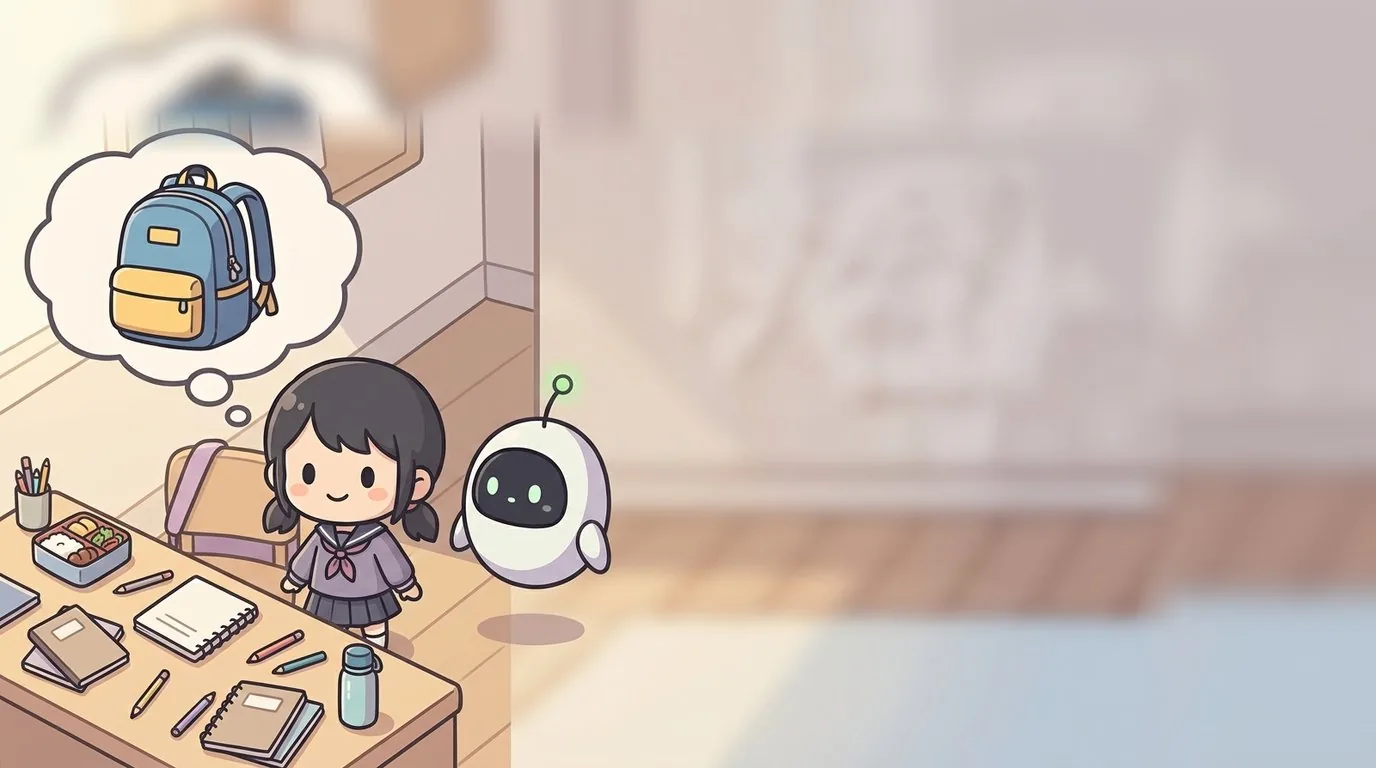
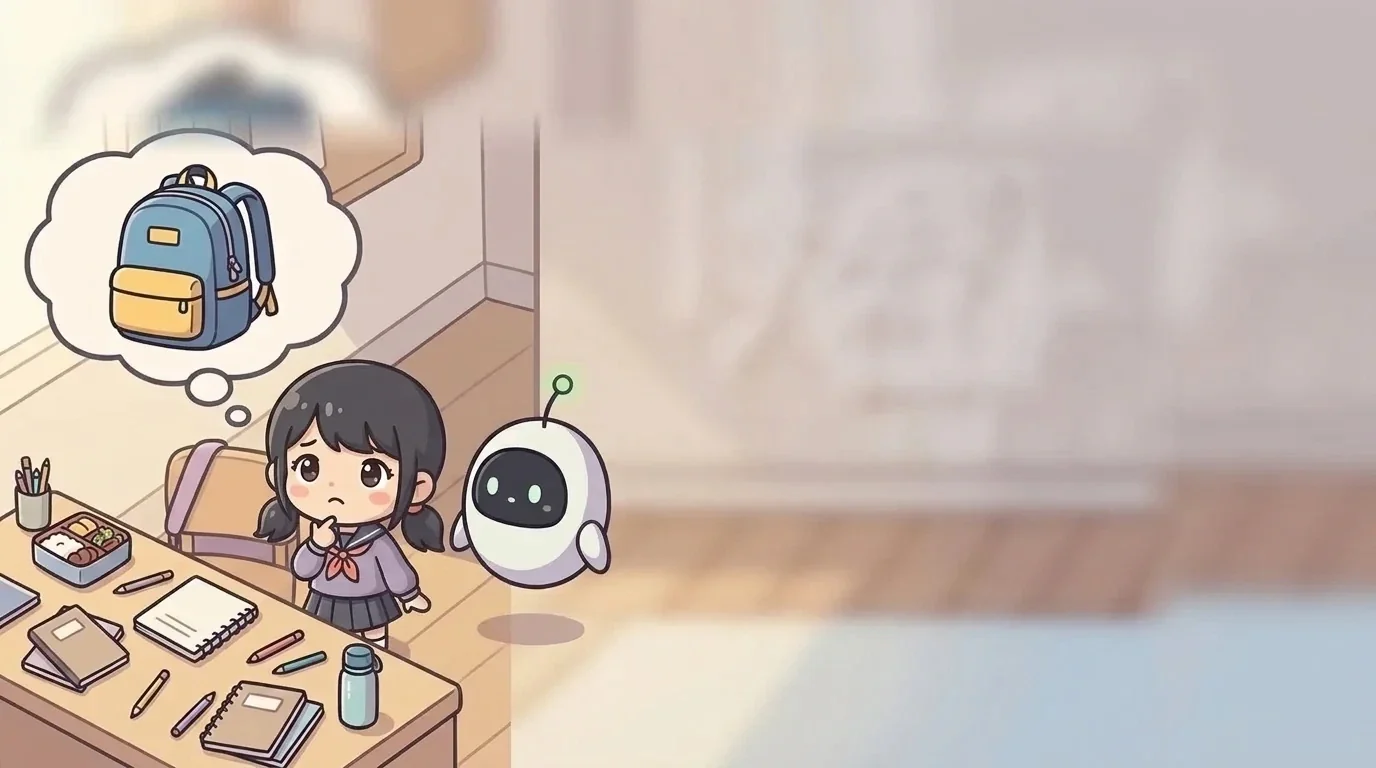
Promoções 0 a 5, menina da Escola e alfinete da Fábrica redesenhados
Artes novas geradas no Google Flow no estilo dos personagens mais recentes.
As versões antigas foram para antigos/img/ e estão listadas no LEIA-ME.

Claude-Session: https://claude.ai/code/session_01Bsh6pjGxG4aLmpNmfdfPHX

diff --git a/sw.js b/sw.js
@@ -2,7 +2,7 @@
    rode "node ferramentas/gerar-sw.js" depois de mudar o ?v= do index.html. */
 'use strict';
 
-const VERSAO = '202611260300';
+const VERSAO = '202611260330';
 const CACHE = 'algoritimando-' + VERSAO;
 const ARQUIVOS = [
   "./",
@@ -18,7 +18,7 @@ const ARQUIVOS = [
   "audio/efeitos/selo.mp3",
   "audio/efeitos/vitoria.mp3",
   "audio/musica-tema.mp3",
-  "fontes/fontes.css?v=202611260300",
+  "fontes/fontes.css?v=202611260330",
   "fontes/fredoka.woff2",
   "fontes/nunito.woff2",
   "img/agente-afro-menina.webp",
@@ -44,7 +44,6 @@ const ARQUIVOS = [
   "img/av9.webp",
   "img/cliente0.webp",
   "img/cliente1.webp",
-  "img/cliente2.webp",
   "img/cliente3.webp",
   "img/cliente4.webp",
   "img/cliente5.webp",
@@ -64,7 +63,6 @@ const ARQUIVOS = [
   "img/icones/icone-maskable-512.png",
   "img/level1.webp",
   "img/level2.webp",
-  "img/level3.webp",
   "img/level4.webp",
   "img/level5.webp",
   "img/level6.webp",
@@ -232,18 +230,11 @@ const ARQUIVOS = [
   "img/pecas/sanduiche-queijo.webp",
   "img/pic1.webp",
   "img/pic2.webp",
-  "img/pic3.webp",
   "img/pic4.webp",
   "img/pic5.webp",
   "img/pic6.webp",
   "img/pic7.webp",
   "img/pic8.webp",
-  "img/promo0.webp",
-  "img/promo1.webp",
-  "img/promo2.webp",
-  "img/promo3.webp",
-  "img/promo4.webp",
-  "img/promo5.webp",
   "img/promo6.webp",
   "img/promo7.webp",
   "img/promo8.webp",
@@ -270,38 +261,35 @@ const ARQUIVOS = [
   "img/ui/dica.webp",
   "img/ui/estrela.webp",
   "img/who1.webp",
-  "img/who2.webp",
-  "img/who3.webp",
   "img/who4.webp",
   "img/who5.webp",
   "img/who6.webp",
   "img/win1.webp",
   "img/win2.webp",
-  "img/win3.webp",
   "img/win4.webp",
   "img/win5.webp",
   "img/win6.webp",
   "img/win7.webp",
   "img/win8.webp",
   "index.html",
-  "js/album.js?v=202611260300",
-  "js/app.js?v=202611260300",
-  "js/arrasto.js?v=202611260300",
-  "js/comum.js?v=202611260300",
-  "js/conclusao.js?v=202611260300",
-  "js/em-progresso.js?v=202611260300",
-  "js/final.js?v=202611260300",
-  "js/jogo.js?v=202611260300",
-  "js/montagem.js?v=202611260300",
-  "js/motor.js?v=202611260300",
-  "js/perfil.js?v=202611260300",
-  "js/progresso.js?v=202611260300",
-  "js/pwa.js?v=202611260300",
-  "js/situacoes.js?v=202611260300",
-  "js/som.js?v=202611260300",
-  "js/versao.js?v=202611260300",
+  "js/album.js?v=202611260330",
+  "js/app.js?v=202611260330",
+  "js/arrasto.js?v=202611260330",
+  "js/comum.js?v=202611260330",
+  "js/conclusao.js?v=202611260330",
+  "js/em-progresso.js?v=202611260330",
+  "js/final.js?v=202611260330",
+  "js/jogo.js?v=202611260330",
+  "js/montagem.js?v=202611260330",
+  "js/motor.js?v=202611260330",
+  "js/perfil.js?v=202611260330",
+  "js/progresso.js?v=202611260330",
+  "js/pwa.js?v=202611260330",
+  "js/situacoes.js?v=202611260330",
+  "js/som.js?v=202611260330",
+  "js/versao.js?v=202611260330",
   "manifest.webmanifest",
-  "style.css?v=202611260300"
+  "style.css?v=202611260330"
 ];
 
 // instala: baixa tudo de novo (sem usar o cache do navegador)

diff --git a/index.html b/index.html
@@ -18,8 +18,8 @@
     <meta name="apple-mobile-web-app-status-bar-style" content="black-translucent" />
     <meta name="apple-mobile-web-app-title" content="Algoritimando" />
     <!-- fontes guardadas no projeto: o jogo funciona sem internet -->
-    <link rel="stylesheet" href="fontes/fontes.css?v=202611260300" />
-    <link rel="stylesheet" href="style.css?v=202611260300" />
+    <link rel="stylesheet" href="fontes/fontes.css?v=202611260330" />
+    <link rel="stylesheet" href="style.css?v=202611260330" />
   </head>
   <body>
     <div id="stage">
@@ -916,23 +916,23 @@
          das cartas numa região, explicações de erro em outra -->
     <div class="sr leitor-avisos" aria-live="polite"></div>
     <div class="sr leitor-explicacao" aria-live="polite"></div>
-    <script src="js/versao.js?v=202611260300"></script>
-    <script src="js/motor.js?v=202611260300"></script>
-    <script src="js/comum.js?v=202611260300"></script>
-    <script src="js/situacoes.js?v=202611260300"></script>
-    <script src="js/em-progresso.js?v=202611260300"></script>
-    <script src="js/som.js?v=202611260300"></script>
-    <script src="js/progresso.js?v=202611260300"></script>
-    <script src="js/perfil.js?v=202611260300"></script>
-    <script src="js/arrasto.js?v=202611260300"></script>
-    <script src="js/conclusao.js?v=202611260300"></script>
-    <script src="js/montagem.js?v=202611260300"></script>
-    <script src="js/jogo.js?v=202611260300"></script>
+    <script src="js/versao.js?v=202611260330"></script>
+    <script src="js/motor.js?v=202611260330"></script>
+    <script src="js/comum.js?v=202611260330"></script>
+    <script src="js/situacoes.js?v=202611260330"></script>
+    <script src="js/em-progresso.js?v=202611260330"></script>
+    <script src="js/som.js?v=202611260330"></script>
+    <script src="js/progresso.js?v=202611260330"></script>
+    <script src="js/perfil.js?v=202611260330"></script>
+    <script src="js/arrasto.js?v=202611260330"></script>
+    <script src="js/conclusao.js?v=202611260330"></script>
+    <script src="js/montagem.js?v=202611260330"></script>
+    <script src="js/jogo.js?v=202611260330"></script>
     <!-- a cópia do certificado que vai para a impressora (final.js) -->
     <div id="impressao" aria-hidden="true"></div>
-    <script src="js/album.js?v=202611260300"></script>
-    <script src="js/final.js?v=202611260300"></script>
-    <script src="js/app.js?v=202611260300"></script>
-    <script src="js/pwa.js?v=202611260300"></script>
+    <script src="js/album.js?v=202611260330"></script>
+    <script src="js/final.js?v=202611260330"></script>
+    <script src="js/app.js?v=202611260330"></script>
+    <script src="js/pwa.js?v=202611260330"></script>
   </body>
 </html>

diff --git a/js/final.js b/js/final.js
@@ -36,7 +36,7 @@
   const proximo = $('#bFimNext');
 
   // ?v= faz o navegador buscar a imagem nova quando ela muda
-  const V = '?v=202611260300';
+  const V = '?v=202611260330';
 
   /* Os quadros. "reserva": imagem do jogo usada enquanto a do
      quadro não existe. "festa": confete e música de vitória. */

diff --git a/js/versao.js b/js/versao.js
@@ -1,2 +1,2 @@
 /* js/versao.js — gerado por ferramentas/gerar-sw.js. Não edite à mão. */
-window.ALGORITIMANDO_VERSAO = { numero: '1.54', data: '26/11/2026' };
+window.ALGORITIMANDO_VERSAO = { numero: '1.57', data: '26/11/2026' };

diff --git a/antigos/LEIA-ME.md b/antigos/LEIA-ME.md
@@ -10,3 +10,7 @@ Não entram aqui as partes desativadas **por enquanto** (Área do professor/edit
 | `img/av0.webp`, `img/agente-menina.webp` | agente 0 (menina) no desenho antigo, com cinto e estrela | redesign no estilo dos agentes novos | 26/11/2026 |
 | `img/av1.webp`, `img/agente-menino.webp` | agente 1 (menino) no desenho antigo, com acabamento azul | redesign no estilo dos agentes novos | 26/11/2026 |
 | `img/agente-costas.webp` | agente de costas, corpo inteiro | não é usado em nenhuma tela (o botão secreto usa `av-equipe.webp`) | 04/11/2026 |
+| `img/promo0.webp` a `img/promo5.webp` | cenas de promoção dos agentes 0 a 5 com o robô ovo e o casaco antigo | mesma cena da `promo6`, com o Robô-guia branco e o uniforme novo | 26/11/2026 |
+| `img/cliente2.webp`, `img/who3.webp` | menina da Escola (mochila) no traço de anime | redesign no estilo dos clientes novos | 26/11/2026 |
+| `img/pic3.webp`, `img/level3.webp`, `img/win3.webp` | cenas da Escola com a menina antiga | mesmas cenas com a menina redesenhada | 26/11/2026 |
+| `img/who2.webp` | alfinete da Fábrica com um operário de capacete | retrato do robô laranja (`cliente1`), que é o cliente desse chamado | 26/11/2026 |
